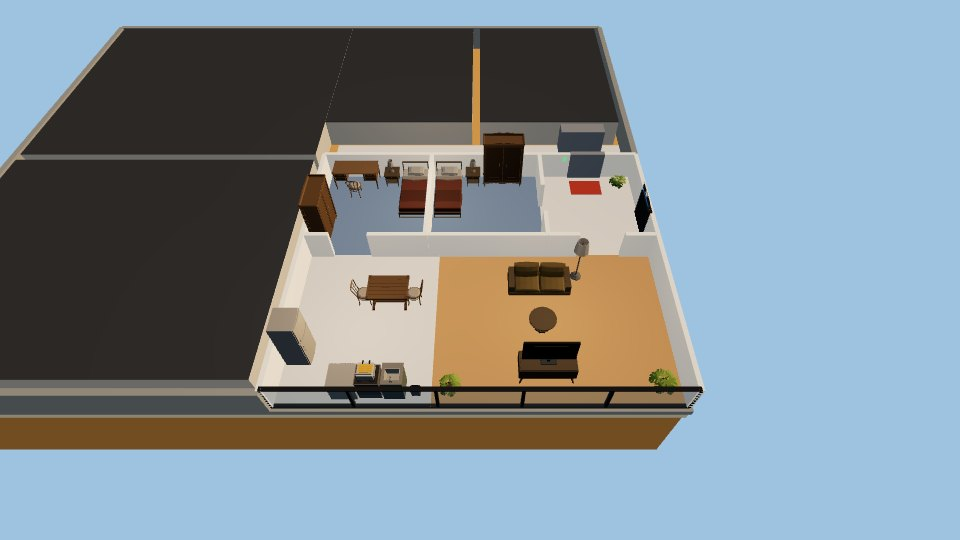
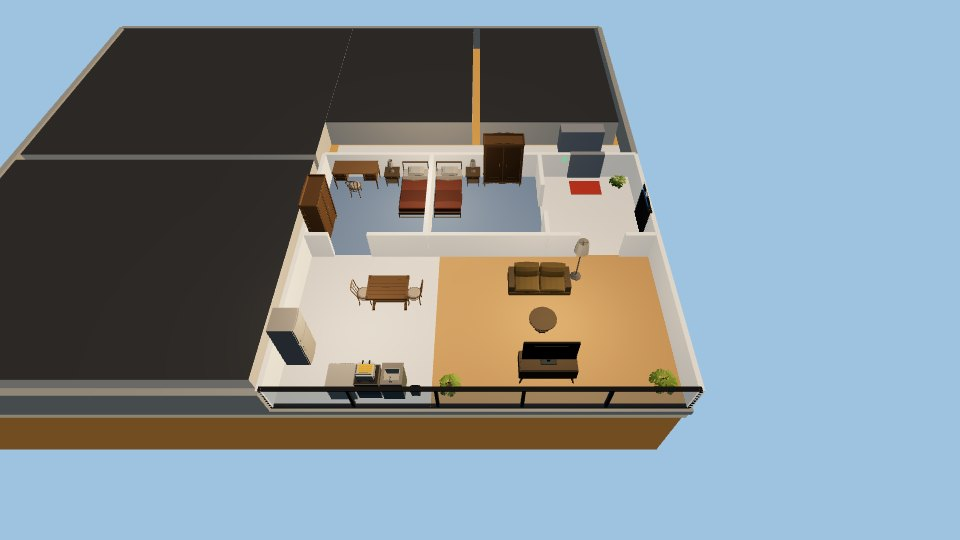
Akte 1: keuken en flat in de echte wereld in beeld (Electron via de veilige runner), flatlampen warmer
scripts/qa/akte1_sets_beeld.mjs start één Electron via scripts/lib/electronrunner.cjs (slot in ~/gde-locks, --no-sandbox,
wegwerpprofiel en TEMP in de uitvoermap, logboek met hartslag) op een stage met de wereld van exe-0.65-test, en neemt de keuken
(hoog boven de straat, geleende setlampen) en de flat (op zijn plek in de toren, toren erboven verborgen) op een ochtend en een
avond. De camera zet near op 5 cm (op hoogte zette scene3d.js hem groter: de keuken viel weg). scripts/akte1/png_naar_jpg.mjs zet de
beelden om; de pagina docs/beeld-23-11/akte1/index.html toont ze. Gezien in de avondbeelden: de meubels in de flat waren te donker;
de drie flatlampen gaan van 2,4-2,6 naar 6-7.

diff --git a/docs/beeld-23-11/akte1/index.html b/docs/beeld-23-11/akte1/index.html
@@ -5,18 +5,27 @@ figure{margin:0}img{width:100%;border-radius:4px;display:block}figcaption{font-s
 .let{background:#fff7e0;border-left:4px solid #d9a53a;padding:8px 12px}</style></head><body>
 <h1>Akte 1 op eindniveau: de keuken en de flat, voor en na</h1>
 <p>Branch <code>akte1-eindniveau-23-11</code>. Gemaakt met <code>scripts/akte1/sets_render.mjs</code> (headless Chrome, three.js uit de vendor-cache, de set alleen, met het licht van de wereld nagebootst) en <code>scripts/akte1/sets_pagina.mjs</code>.</p>
-<p class="let">Niet in beeld gezien: de sets in de echte wereld in Electron (hoog boven de straat, de lampen van de nachtrig op Laag en Midden), de personages op de stoelen, de LOD-wissel tijdens het spelen (scene3d.js roept updateLodObjects pas aan op perf-ultra-23-11).</p>
+<p class="let">Niet in beeld gezien: de sets tijdens het echte spelen (de opening met de personages op de stoelen, de speler in de flat met de volgcamera), de stand Laag (daar zijn de setlampen echte lampen), de LOD-wissel tijdens het spelen (scene3d.js roept updateLodObjects pas aan op perf-ultra-23-11).</p>
 <h2>De keuken van de opening (Zolderkeuken, C00.2)</h2>
-<section><h3>Wijd vanaf de deur</h3><p>Gestuukte muren in plaats van strepen, plafond, plinten en tegels; spoelkast, fornuis, wasmachine, koelkast, plank met cactus, tafel met twee houten stoelen op een kleed, hanglamp, raamkozijn en plant uit de CC0-packs van Quaternius.</p><div class="paar"><figure><img src="keuken-breed-voor.jpg" alt="keuken-breed-voor.jpg" loading="lazy"><figcaption>Voor · 70 draw calls, 800 driehoeken</figcaption></figure><figure><img src="keuken-breed-na.jpg" alt="keuken-breed-na.jpg" loading="lazy"><figcaption>Na · </figcaption></figure></div></section>
-<section><h3>Over de schouder op Tessa</h3><p>De radio is een echte prop (buisradio) op de vensterbank; het raam met de dageraad blijft vrij.</p><div class="paar"><figure><img src="keuken-schouder-voor.jpg" alt="keuken-schouder-voor.jpg" loading="lazy"><figcaption>Voor · 59 draw calls, 668 driehoeken</figcaption></figure><figure><img src="keuken-schouder-na.jpg" alt="keuken-schouder-na.jpg" loading="lazy"><figcaption>Na · </figcaption></figure></div></section>
-<section><h3>Het aanrecht</h3><p>Kastjes en apparaten in plaats van groene vlakken; licht van de tafellamp valt over de tegels.</p><div class="paar"><figure><img src="keuken-aanrecht-voor.jpg" alt="keuken-aanrecht-voor.jpg" loading="lazy"><figcaption>Voor · 58 draw calls, 726 driehoeken</figcaption></figure><figure><img src="keuken-aanrecht-na.jpg" alt="keuken-aanrecht-na.jpg" loading="lazy"><figcaption>Na · </figcaption></figure></div></section>
-<section><h3>Naar de deur</h3><p>De deur kijkt een verlichte gang in (planken, lamp, plant, deur naar het trappenhuis) in plaats van een zwart vlak (VQA 23-11 #4).</p><div class="paar"><figure><img src="keuken-deur-voor.jpg" alt="keuken-deur-voor.jpg" loading="lazy"><figcaption>Voor · 62 draw calls, 734 driehoeken</figcaption></figure><figure><img src="keuken-deur-na.jpg" alt="keuken-deur-na.jpg" loading="lazy"><figcaption>Na · </figcaption></figure></div></section>
-<section><h3>Naar het raam</h3><p>Echt kozijn met glas voor de dageraad; licht per ruimte: tafellamp, dageraad door het raam, ganglamp.</p><div class="paar"><figure><img src="keuken-raam-voor.jpg" alt="keuken-raam-voor.jpg" loading="lazy"><figcaption>Voor · 58 draw calls, 666 driehoeken</figcaption></figure><figure><img src="keuken-raam-na.jpg" alt="keuken-raam-na.jpg" loading="lazy"><figcaption>Na · </figcaption></figure></div></section>
-<section><h3>Het deurshot van de naamkaart (maatpop 1,78 m, letterbox 2,39:1)</h3><p>In de video (VQA 23-11 #2) raakte de kin van Tammo de bovenrand. Met een maatpop van 1,78 m staat het hoofd in beide beelden; na de fix staat de camera op ooghoogte en verder weg, met ruim twee keer zoveel hoofdruimte, zodat ook een grotere figuur heel in beeld blijft. Met het echte personage niet bekeken.</p><div class="paar"><figure><img src="keuken-deurshot-voor.jpg" alt="keuken-deurshot-voor.jpg" loading="lazy"><figcaption>Voor · 0 draw calls, 0 driehoeken</figcaption></figure><figure><img src="keuken-deurshot-na.jpg" alt="keuken-deurshot-na.jpg" loading="lazy"><figcaption>Na · </figcaption></figure></div></section>
+<section><h3>Wijd vanaf de deur</h3><p>Gestuukte muren in plaats van strepen, plafond, plinten en tegels; spoelkast, fornuis, wasmachine, koelkast, plank met cactus, tafel met twee houten stoelen op een kleed, hanglamp, raamkozijn en plant uit de CC0-packs van Quaternius.</p><div class="paar"><figure><img src="keuken-breed-voor.jpg" alt="keuken-breed-voor.jpg" loading="lazy"><figcaption>Voor · 70 draw calls, 800 driehoeken</figcaption></figure><figure><img src="keuken-breed-na.jpg" alt="keuken-breed-na.jpg" loading="lazy"><figcaption>Na · 50 draw calls, 7066 driehoeken</figcaption></figure></div></section>
+<section><h3>Over de schouder op Tessa</h3><p>De radio is een echte prop (buisradio) op de vensterbank; het raam met de dageraad blijft vrij.</p><div class="paar"><figure><img src="keuken-schouder-voor.jpg" alt="keuken-schouder-voor.jpg" loading="lazy"><figcaption>Voor · 59 draw calls, 668 driehoeken</figcaption></figure><figure><img src="keuken-schouder-na.jpg" alt="keuken-schouder-na.jpg" loading="lazy"><figcaption>Na · 44 draw calls, 6779 driehoeken</figcaption></figure></div></section>
+<section><h3>Het aanrecht</h3><p>Kastjes en apparaten in plaats van groene vlakken; licht van de tafellamp valt over de tegels.</p><div class="paar"><figure><img src="keuken-aanrecht-voor.jpg" alt="keuken-aanrecht-voor.jpg" loading="lazy"><figcaption>Voor · 58 draw calls, 726 driehoeken</figcaption></figure><figure><img src="keuken-aanrecht-na.jpg" alt="keuken-aanrecht-na.jpg" loading="lazy"><figcaption>Na · 46 draw calls, 7050 driehoeken</figcaption></figure></div></section>
+<section><h3>Naar de deur</h3><p>De deur kijkt een verlichte gang in (planken, lamp, plant, deur naar het trappenhuis) in plaats van een zwart vlak (VQA 23-11 #4).</p><div class="paar"><figure><img src="keuken-deur-voor.jpg" alt="keuken-deur-voor.jpg" loading="lazy"><figcaption>Voor · 62 draw calls, 734 driehoeken</figcaption></figure><figure><img src="keuken-deur-na.jpg" alt="keuken-deur-na.jpg" loading="lazy"><figcaption>Na · 54 draw calls, 6565 driehoeken</figcaption></figure></div></section>
+<section><h3>Naar het raam</h3><p>Echt kozijn met glas voor de dageraad; licht per ruimte: tafellamp, dageraad door het raam, ganglamp.</p><div class="paar"><figure><img src="keuken-raam-voor.jpg" alt="keuken-raam-voor.jpg" loading="lazy"><figcaption>Voor · 58 draw calls, 666 driehoeken</figcaption></figure><figure><img src="keuken-raam-na.jpg" alt="keuken-raam-na.jpg" loading="lazy"><figcaption>Na · 46 draw calls, 6314 driehoeken</figcaption></figure></div></section>
+<section><h3>Het deurshot van de naamkaart (maatpop 1,78 m, letterbox 2,39:1)</h3><p>In de video (VQA 23-11 #2) raakte de kin van Tammo de bovenrand. Met een maatpop van 1,78 m staat het hoofd in beide beelden; na de fix staat de camera op ooghoogte en verder weg, met ruim twee keer zoveel hoofdruimte, zodat ook een grotere figuur heel in beeld blijft. Met het echte personage niet bekeken.</p><div class="paar"><figure><img src="keuken-deurshot-voor.jpg" alt="keuken-deurshot-voor.jpg" loading="lazy"><figcaption>Voor · 0 draw calls, 0 driehoeken</figcaption></figure><figure><img src="keuken-deurshot-na.jpg" alt="keuken-deurshot-na.jpg" loading="lazy"><figcaption>Na · 0 draw calls, 0 driehoeken</figcaption></figure></div></section>
 <h2>De flat van Tammo en Tessa (Paddepoel)</h2>
-<section><h3>Overzicht (cutaway)</h3><p>Elke kamer ingericht; de zwevende lampvlakken boven de cutaway zijn weg, drie warme lampen per kamergroep.</p><div class="paar"><figure><img src="flat-overzicht-voor.jpg" alt="flat-overzicht-voor.jpg" loading="lazy"><figcaption>Voor · 90 draw calls, 1070 driehoeken</figcaption></figure><figure><img src="flat-overzicht-na.jpg" alt="flat-overzicht-na.jpg" loading="lazy"><figcaption>Na · </figcaption></figure></div></section>
-<section><h3>Woonkamer</h3><p>Bank, bijzettafel op kleed, tv op een ladekast (tv uit het propregister), staande lamp, planten.</p><div class="paar"><figure><img src="flat-woonkamer-voor.jpg" alt="flat-woonkamer-voor.jpg" loading="lazy"><figcaption>Voor · 75 draw calls, 890 driehoeken</figcaption></figure><figure><img src="flat-woonkamer-na.jpg" alt="flat-woonkamer-na.jpg" loading="lazy"><figcaption>Na · </figcaption></figure></div></section>
-<section><h3>Keuken</h3><p>Spoelkast, fornuis met de frituurpan (propregister), wasmachine, koelkast, tafel met twee stoelen.</p><div class="paar"><figure><img src="flat-keuken-voor.jpg" alt="flat-keuken-voor.jpg" loading="lazy"><figcaption>Voor · 44 draw calls, 528 driehoeken</figcaption></figure><figure><img src="flat-keuken-na.jpg" alt="flat-keuken-na.jpg" loading="lazy"><figcaption>Na · </figcaption></figure></div></section>
-<section><h3>Slaapkamers</h3><p>Twee bedden met nachtkastje en lamp, kledingkasten, bureau met stoel bij Tessa.</p><div class="paar"><figure><img src="flat-slaapkamers-voor.jpg" alt="flat-slaapkamers-voor.jpg" loading="lazy"><figcaption>Voor · 54 draw calls, 648 driehoeken</figcaption></figure><figure><img src="flat-slaapkamers-na.jpg" alt="flat-slaapkamers-na.jpg" loading="lazy"><figcaption>Na · </figcaption></figure></div></section>
+<section><h3>Overzicht (cutaway)</h3><p>Elke kamer ingericht; de zwevende lampvlakken boven de cutaway zijn weg, drie warme lampen per kamergroep.</p><div class="paar"><figure><img src="flat-overzicht-voor.jpg" alt="flat-overzicht-voor.jpg" loading="lazy"><figcaption>Voor · 90 draw calls, 1070 driehoeken</figcaption></figure><figure><img src="flat-overzicht-na.jpg" alt="flat-overzicht-na.jpg" loading="lazy"><figcaption>Na · 75 draw calls, 20357 driehoeken</figcaption></figure></div></section>
+<section><h3>Woonkamer</h3><p>Bank, bijzettafel op kleed, tv op een ladekast (tv uit het propregister), staande lamp, planten.</p><div class="paar"><figure><img src="flat-woonkamer-voor.jpg" alt="flat-woonkamer-voor.jpg" loading="lazy"><figcaption>Voor · 75 draw calls, 890 driehoeken</figcaption></figure><figure><img src="flat-woonkamer-na.jpg" alt="flat-woonkamer-na.jpg" loading="lazy"><figcaption>Na · 57 draw calls, 10092 driehoeken</figcaption></figure></div></section>
+<section><h3>Keuken</h3><p>Spoelkast, fornuis met de frituurpan (propregister), wasmachine, koelkast, tafel met twee stoelen.</p><div class="paar"><figure><img src="flat-keuken-voor.jpg" alt="flat-keuken-voor.jpg" loading="lazy"><figcaption>Voor · 44 draw calls, 528 driehoeken</figcaption></figure><figure><img src="flat-keuken-na.jpg" alt="flat-keuken-na.jpg" loading="lazy"><figcaption>Na · 39 draw calls, 8581 driehoeken</figcaption></figure></div></section>
+<section><h3>Slaapkamers</h3><p>Twee bedden met nachtkastje en lamp, kledingkasten, bureau met stoel bij Tessa.</p><div class="paar"><figure><img src="flat-slaapkamers-voor.jpg" alt="flat-slaapkamers-voor.jpg" loading="lazy"><figcaption>Voor · 54 draw calls, 648 driehoeken</figcaption></figure><figure><img src="flat-slaapkamers-na.jpg" alt="flat-slaapkamers-na.jpg" loading="lazy"><figcaption>Na · 49 draw calls, 13049 driehoeken</figcaption></figure></div></section>
+<h2>In de wereld (Electron): ochtend en avond</h2><p>De keuken hoog boven de straat zoals de opening hem neerzet, met de geleende setlampen; de flat op zijn plek in de toren in Paddepoel (de toren erboven verborgen zoals in het spel). Gemaakt met <code>scripts/qa/akte1_sets_beeld.mjs</code> (veilige runner, --no-sandbox, wegwerpprofiel), omgezet met <code>scripts/akte1/png_naar_jpg.mjs</code>.</p>
+<section><h3>flat-keuken</h3><div class="paar"><figure><img src="wereld-flat-keuken-7.4.jpg" alt="wereld-flat-keuken-7.4.jpg" loading="lazy"><figcaption>Ochtend (7,4)</figcaption></figure><figure><img src="wereld-flat-keuken-21.5.jpg" alt="wereld-flat-keuken-21.5.jpg" loading="lazy"><figcaption>Avond (21,5)</figcaption></figure></div></section>
+<section><h3>flat-overzicht</h3><div class="paar"><figure><img src="wereld-flat-overzicht-7.4.jpg" alt="wereld-flat-overzicht-7.4.jpg" loading="lazy"><figcaption>Ochtend (7,4)</figcaption></figure><figure><img src="wereld-flat-overzicht-21.5.jpg" alt="wereld-flat-overzicht-21.5.jpg" loading="lazy"><figcaption>Avond (21,5)</figcaption></figure></div></section>
+<section><h3>flat-slaapkamers</h3><div class="paar"><figure><img src="wereld-flat-slaapkamers-7.4.jpg" alt="wereld-flat-slaapkamers-7.4.jpg" loading="lazy"><figcaption>Ochtend (7,4)</figcaption></figure><figure><img src="wereld-flat-slaapkamers-21.5.jpg" alt="wereld-flat-slaapkamers-21.5.jpg" loading="lazy"><figcaption>Avond (21,5)</figcaption></figure></div></section>
+<section><h3>flat-woonkamer</h3><div class="paar"><figure><img src="wereld-flat-woonkamer-7.4.jpg" alt="wereld-flat-woonkamer-7.4.jpg" loading="lazy"><figcaption>Ochtend (7,4)</figcaption></figure><figure><img src="wereld-flat-woonkamer-21.5.jpg" alt="wereld-flat-woonkamer-21.5.jpg" loading="lazy"><figcaption>Avond (21,5)</figcaption></figure></div></section>
+<section><h3>keuken-aanrecht</h3><div class="paar"><figure><img src="wereld-keuken-aanrecht-7.4.jpg" alt="wereld-keuken-aanrecht-7.4.jpg" loading="lazy"><figcaption>Ochtend (7,4)</figcaption></figure><figure><img src="wereld-keuken-aanrecht-21.5.jpg" alt="wereld-keuken-aanrecht-21.5.jpg" loading="lazy"><figcaption>Avond (21,5)</figcaption></figure></div></section>
+<section><h3>keuken-breed</h3><div class="paar"><figure><img src="wereld-keuken-breed-7.4.jpg" alt="wereld-keuken-breed-7.4.jpg" loading="lazy"><figcaption>Ochtend (7,4)</figcaption></figure><figure><img src="wereld-keuken-breed-21.5.jpg" alt="wereld-keuken-breed-21.5.jpg" loading="lazy"><figcaption>Avond (21,5)</figcaption></figure></div></section>
+<section><h3>keuken-deur</h3><div class="paar"><figure><img src="wereld-keuken-deur-7.4.jpg" alt="wereld-keuken-deur-7.4.jpg" loading="lazy"><figcaption>Ochtend (7,4)</figcaption></figure><figure><img src="wereld-keuken-deur-21.5.jpg" alt="wereld-keuken-deur-21.5.jpg" loading="lazy"><figcaption>Avond (21,5)</figcaption></figure></div></section>
+<section><h3>keuken-schouder</h3><div class="paar"><figure><img src="wereld-keuken-schouder-7.4.jpg" alt="wereld-keuken-schouder-7.4.jpg" loading="lazy"><figcaption>Ochtend (7,4)</figcaption></figure><figure><img src="wereld-keuken-schouder-21.5.jpg" alt="wereld-keuken-schouder-21.5.jpg" loading="lazy"><figcaption>Avond (21,5)</figcaption></figure></div></section>
 <h2>De meubels uit het register</h2><p>Lod 0 (het model) en lod 1 (van het centrale LOD-systeem, lodkit3d.js, soort interior). Blauwe paal: 1,8 m; rode pijl: de voorkant (+x).</p><div class="paar"><figure><img src="meubelblad-lod0-na.jpg" alt="meubelblad-lod0-na.jpg" loading="lazy"><figcaption>Lod 0</figcaption></figure><figure><img src="meubelblad-lod1-na.jpg" alt="meubelblad-lod1-na.jpg" loading="lazy"><figcaption>Lod 1</figcaption></figure></div>
 </body></html>

diff --git a/scripts/qa/akte1_sets_beeld.page.js b/scripts/qa/akte1_sets_beeld.page.js
@@ -1,0 +1,95 @@
+// Page half of scripts/qa/akte1_sets_beeld.mjs (desktop --perf-script body; akte 1 op eindniveau, 23-11): de keuken van de opening en de
+// flat van Tammo en Tessa in de echte wereld. De keuken staat zoals in de opening hoog boven de straat (introkitchen3d.js, met de
+// geleende setlampen); de flat wordt op zijn echte plek in de toren gebouwd (home.js getHome().flat, home3d.js buildFlat3D).
+// Per standpunt één beeld, op een ochtend (7,4) en een avond (21,5). window.__as = { settle, klokken }.
+const sleep = (ms) => new Promise((res) => setTimeout(res, ms));
+const tapKey = (k, code) => { for (const t of [window, document]) { t.dispatchEvent(new KeyboardEvent('keydown', { key: k, code, bubbles: true })); t.dispatchEvent(new KeyboardEvent('keyup', { key: k, code, bubbles: true })); } };
+for (let i = 0; i < 300 && !document.body.classList.contains('game-started'); i++) await sleep(500);
+for (let i = 0; i < 25 && window.__debug && window.__debug.world && window.__debug.world.paused; i++) { tapKey(' ', 'Space'); await sleep(700); }
+const D = window.__debug; const w = D.world;
+const imp = (f) => import('/js/' + f + '.js');
+const CFG = window.__as || {};
+const cine = await imp('cinematics');
+const DN = await imp('daynight');
+const S3 = window.__scene3d;
+const skipper = setInterval(() => { if (cine.isCinematicActive()) cine.skipCinematic(); }, 100);
+w.devInvuln = true;
+D.input.canLock = () => false;
+if (document.pointerLockElement) document.exitPointerLock();
+let klok = 7.4;
+const fix = () => {
+  w.clock = klok;
+  w.weather = { active: false, timer: 1e9, kind: 'helder', peak: 0, intensity: 0, wet: 0, overcast: 0, mist: 0, windAngle: 0.9, elapsed: 0, duration: Infinity };
+  if (DN.refreshDayNight) DN.refreshDayNight(w);
+};
+let done = false, cur = null;
+const tick = () => { fix(); if (!done) requestAnimationFrame(tick); };
+requestAnimationFrame(tick);
+const origRender = S3.renderer.render.bind(S3.renderer);
+S3.renderer.render = (sc, c) => {
+  if (cur && c === S3.cam) { c.position.set(cur.position.x, cur.position.z, cur.position.y); c.lookAt(cur.lookAt.x, cur.lookAt.z, cur.lookAt.y); c.near = 0.05; if (cur.fov) c.fov = cur.fov; c.updateProjectionMatrix(); c.updateMatrixWorld(true); }
+  origRender(sc, c);
+};
+const keep = [S3.renderer.domElement];
+for (const el of document.querySelectorAll('body *')) {
+  if (el.tagName === 'SCRIPT' || el.tagName === 'STYLE' || keep.some((k) => el.contains(k) || k.contains(el))) continue;
+  if (el.parentElement && (el.parentElement === document.body || keep.some((k) => el.parentElement.contains(k)))) el.style.display = 'none';
+}
+const st = document.head.appendChild(document.createElement('style'));
+st.textContent = '#loading,#load-screen{display:none !important}';
+w.cinematicHidePlayers = true;
+const fps = async (ms = 1500) => new Promise((res) => { let n = 0; const t0 = performance.now(); const f = () => { n++; if (performance.now() - t0 < ms) requestAnimationFrame(f); else res(+(n / ((performance.now() - t0) / 1000)).toFixed(1)); }; requestAnimationFrame(f); });
+const shot = async (naam, c) => { cur = c; await sleep(CFG.settle || 2500); console.log('[capture] ' + naam); await sleep(500); };
+const out = { fps0: await fps(), shots: [] };
+
+// 1. de keuken, hoog boven de speler (zoals de opening hem neerzet)
+const K = await imp('introkitchen3d');
+const p = w.player;
+for (const kl of CFG.klokken || [7.4, 21.5]) {
+  klok = kl;
+  const ax = p.x + 30, ay = p.y + 30, az = 60;
+  const kit = K.buildKitchen(ax, ay, az);
+  S3.scene.add(kit.group);
+  for (const c of kit.tableCups) c.visible = true;
+  const at = (u, v, h) => ({ x: ax + u, y: ay + v, z: az + h });
+  const views = [
+    ['keuken-breed', at(0.75, 1.5, 1.62), at(-1.2, -0.9, 1.0), 64],
+    ['keuken-schouder', at(1.55, 0.55, 1.3), at(-0.82, -0.05, 1.05), 45],
+    ['keuken-aanrecht', at(-0.4, 1.5, 1.55), at(0.4, -1.6, 0.95), 58],
+    ['keuken-deur', at(-1.7, -0.9, 1.55), at(1.3, 1.75, 1.1), 55],
+  ];
+  for (const [naam, pos, look, fov] of views) { await shot(`${naam}-${kl}`, { position: pos, lookAt: look, fov }); out.shots.push(`${naam}-${kl}`); }
+  out.keuken = { fps: await fps(800), lampen: kit.group.children.filter((c) => c.isLight).length };
+  kit.dispose();
+}
+
+// 2. de flat op zijn plek in de toren (de cutaway: wanden tot heuphoogte, de camera erboven zoals de volgcamera)
+const H = await imp('home'), H3 = await imp('home3d'), SC = await imp('scene3d');
+const home = H.getHome && H.getHome();
+if (home && home.flat) {
+  const f = home.flat;
+  const mesh = H3.buildFlat3D(f);
+  H3.setFlatFacade(mesh, 1);
+  S3.scene.add(mesh);
+  // de toren boven de flat weg, zoals home.js doet als je boven bent; en de onderkant van de toren zoals de cutaway hem toont
+  if (home.towerBuilding && SC.setBuildingHidden) SC.setBuildingHidden(home.towerBuilding, true);
+  const lower = home.towerBuilding && H3.buildLowerTower3D ? H3.buildLowerTower3D(home.towerBuilding, 10) : null;
+  if (lower) S3.scene.add(lower);
+  w.player.x = f.fl(5.5, 4)[0]; w.player.y = f.fl(5.5, 4)[1];
+  const P = (x, z, h) => { const [wx, wy] = f.fl(x, z); return { x: wx, y: wy, z: f.floorY + h }; };
+  for (const kl of CFG.klokken || [7.4, 21.5]) {
+    klok = kl;
+    const views = [
+      ['flat-overzicht', P(5.5, -5.0, 11), P(5.5, 4.6, 0), 55],
+      ['flat-woonkamer', P(6.3, -0.2, 3.4), P(2.8, 3.6, 0.5), 60],
+      ['flat-keuken', P(5.6, 4.6, 3.4), P(9.6, 1.2, 0.6), 60],
+      ['flat-slaapkamers', P(7.2, 4.2, 4.6), P(7.2, 8.0, 0.4), 62],
+    ];
+    for (const [naam, pos, look, fov] of views) { await shot(`${naam}-${kl}`, { position: pos, lookAt: look, fov }); out.shots.push(`${naam}-${kl}`); }
+  }
+  out.flat = { fps: await fps(800) };
+  S3.scene.remove(mesh);
+  if (lower) S3.scene.remove(lower);
+} else out.flat = { fout: 'geen huis (getHome)' };
+clearInterval(skipper); done = true; cur = null;
+return JSON.stringify(out);

diff --git a/game/js/home3d.js b/game/js/home3d.js
@@ -442,7 +442,7 @@ export function buildFlat3D(flat, skip = new Set()) {
   if (!skip.has('tv')) g.add(registeredProp('tv', { x: s.tv.x, y: 0.74, z: s.tv.z, rot: -Math.PI / 2 }));
   if (!skip.has('frituur')) g.add(registeredProp('frituurpan', { x: s.fryer.x, y: 0.876, z: s.fryer.z, rot: -Math.PI / 2 }));
   // light per room: warm lamps borrowed from the night rig (setlights.js), no fixtures floating over the cutaway walls
-  for (const [x, y, z, i] of [[3.4, 2.3, 2.6, 2.6], [8.9, 2.3, 2.2, 2.4], [7.2, 2.3, 7.3, 2.6]]) {
+  for (const [x, y, z, i] of [[3.4, 2.3, 2.6, 7], [8.9, 2.3, 2.2, 6], [7.2, 2.3, 7.3, 7]]) {
     const l = adoptSetLight(new THREE.PointLight(0xffdcb0, i, 7.5, 1.5));
     l.position.set(x, y, z);
     g.add(l);
